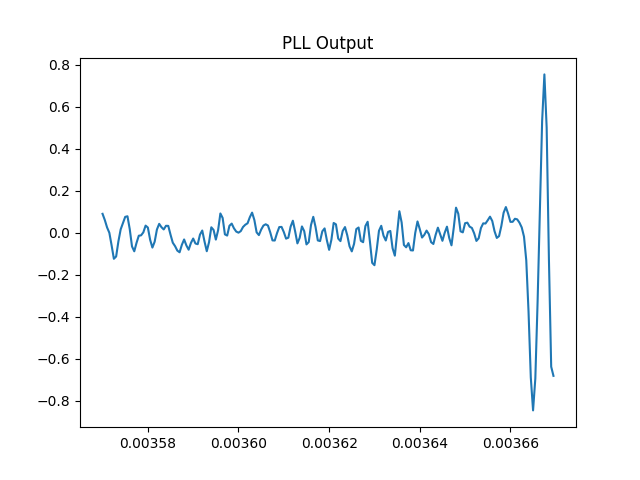
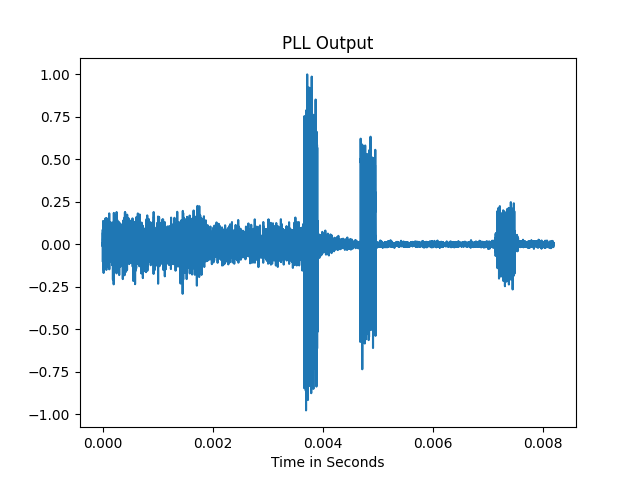
more pics and some edits to figure sorting

diff --git a/gfsk_demod.py b/gfsk_demod.py
@@ -83,10 +83,11 @@ cfc_waterfall_bins = np.reshape(cfc_output, (-1, fft_size))
 cfc_data = np.zeros(cfc_waterfall_bins.shape)
 for index, bin in enumerate(cfc_waterfall_bins):
     cfc_data[index] = np.abs(np.fft.fftshift(np.fft.fft(bin)))
+plt.figure()
 plt.title('data after CFC')
 cfc_data = np.rot90(cfc_data)
 plt.imshow(cfc_data,extent=[cfc_waterfall_bins.shape[1],0,-sample_rate/2, sample_rate/2], aspect='auto')
-plt.figure()
+
 
 ffc_input = cfc_output
 #FFC 
@@ -129,16 +130,25 @@ for index,sample in enumerate(ffc_input):
 #     curr_bit_2 = pll_output_array[k-1]
 #     curr_bit_3 = pll_output_array[k-2]
 #     curr_bit_4 = pll_output_array[k-3]
-
+plt.figure()
 plt.title('Loop Filter Input')
 plt.plot(timescale, loop_filter_input_array)
+
 plt.figure()
 plt.title('PLL Output')
-plt.plot(timescale[7140:7340],pll_output_array[7140:7340]/np.amax(pll_output_array))
+plt.plot(timescale,pll_output_array/np.amax(pll_output_array))
+plt.xlabel("Time in Seconds")
+
+plt.figure()
+plt.title('PLL Output - Zoomed')
+plt.plot(timescale[9160:9970],pll_output_array[9160:9970]/np.amax(pll_output_array))
+plt.xlabel("Time in Seconds")
+
 plt.figure()
 low_pass_pll_output = butter_lowpass_filter(pll_output_array, 500e3, 2e6, order=30)
 plt.title('PLL Output - Low Passed')
-plt.plot(timescale[7140:7340],low_pass_pll_output[7140:7340]/np.amax(low_pass_pll_output))
+plt.plot(timescale[9160:9970],low_pass_pll_output[9160:9970]/np.amax(low_pass_pll_output))
+
 plt.figure()
 plt.title('Input Signal')
 plt.plot(ffc_input/np.amax(ffc_input))
